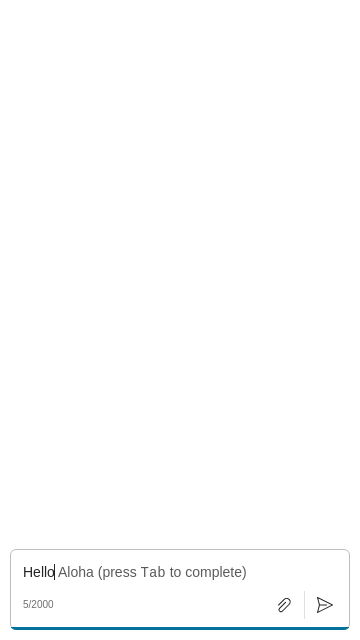
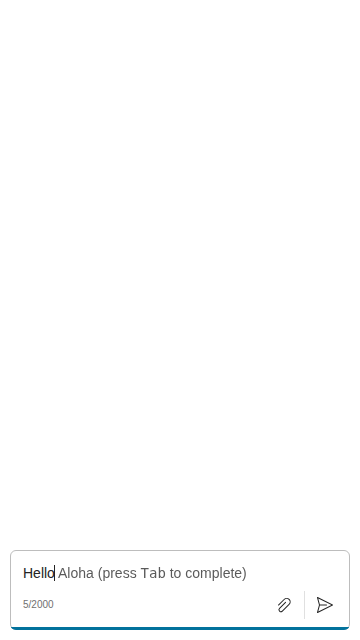
Fix completion

Changed region(s): [[0.0611, 0.875, 0.7028, 0.9062], [0.0611, 0.9375, 0.1528, 0.9688]]

diff --git a/__tests__/html2/fluentTheme/completion.html b/__tests__/html2/fluentTheme/completion.html
@@ -12,6 +12,8 @@
   <script crossorigin="anonymous" src="/__dist__/botframework-webchat-fluent-theme.production.min.js"></script>
   <style>
     .completion {
+      /* If line-height is not set to normal/initial, it will make the send box taller by 1 pixel when the completion is shown. */
+      line-height: normal;
       opacity: 0.75;
     }
   </style>
@@ -24,9 +26,9 @@
       const {
         React,
         ReactDOM: { render },
-        WebChat: { 
+        WebChat: {
           FluentThemeProvider, FluentSendBox, testIds,
-          Components: { BasicWebChat, Composer }, 
+          Components: { BasicWebChat, Composer },
           hooks: { useSendBoxValue }
         }
       } = window; // Imports in UMD fashion.
